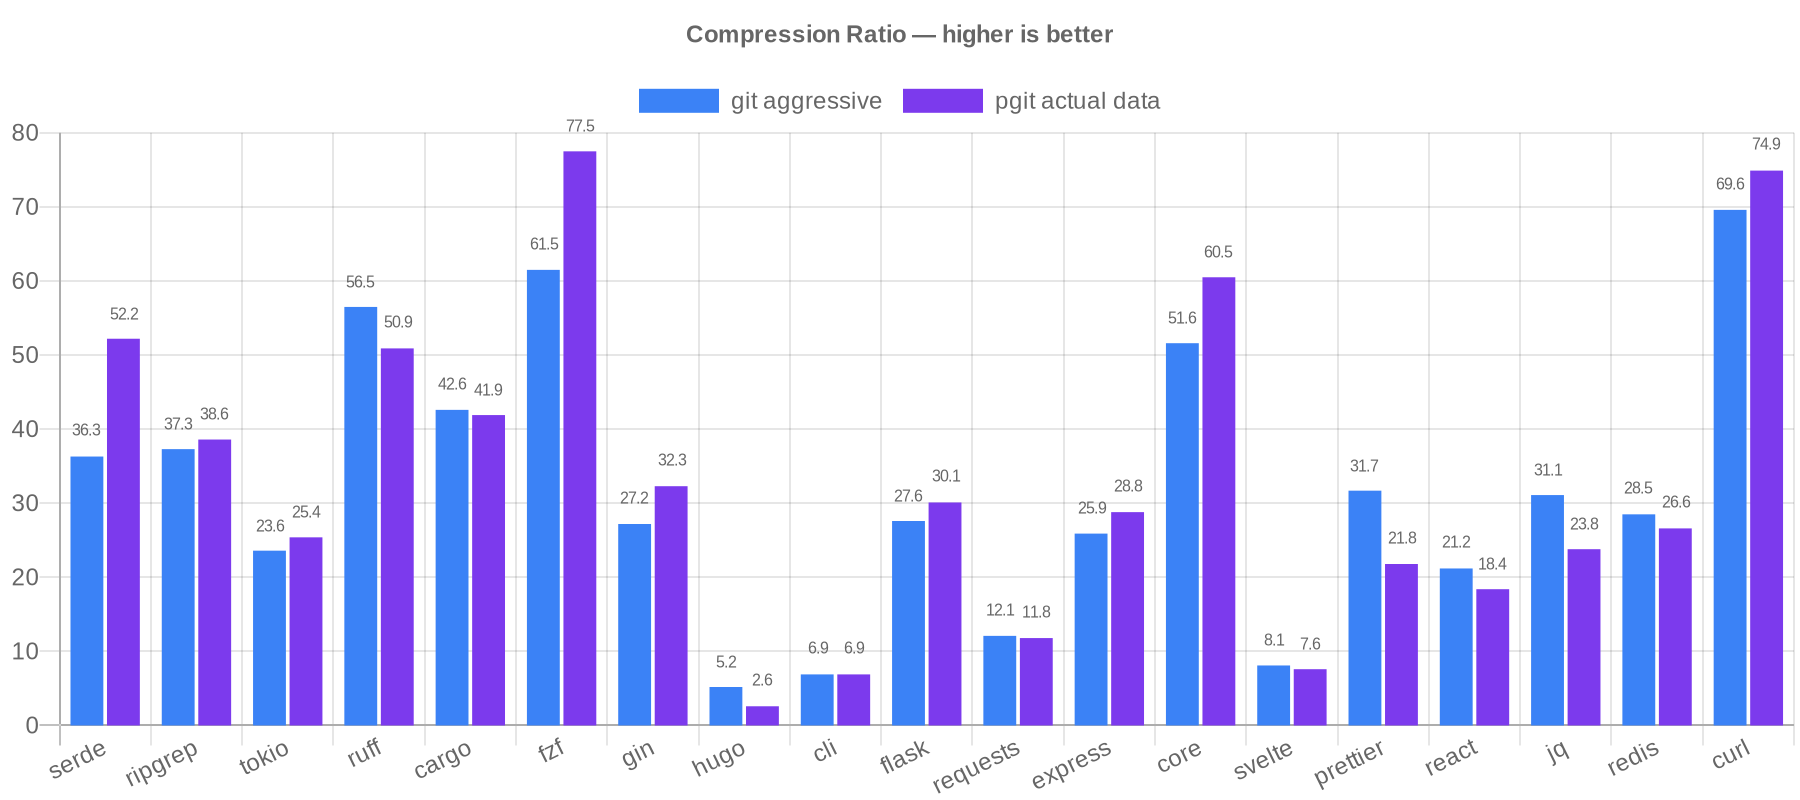
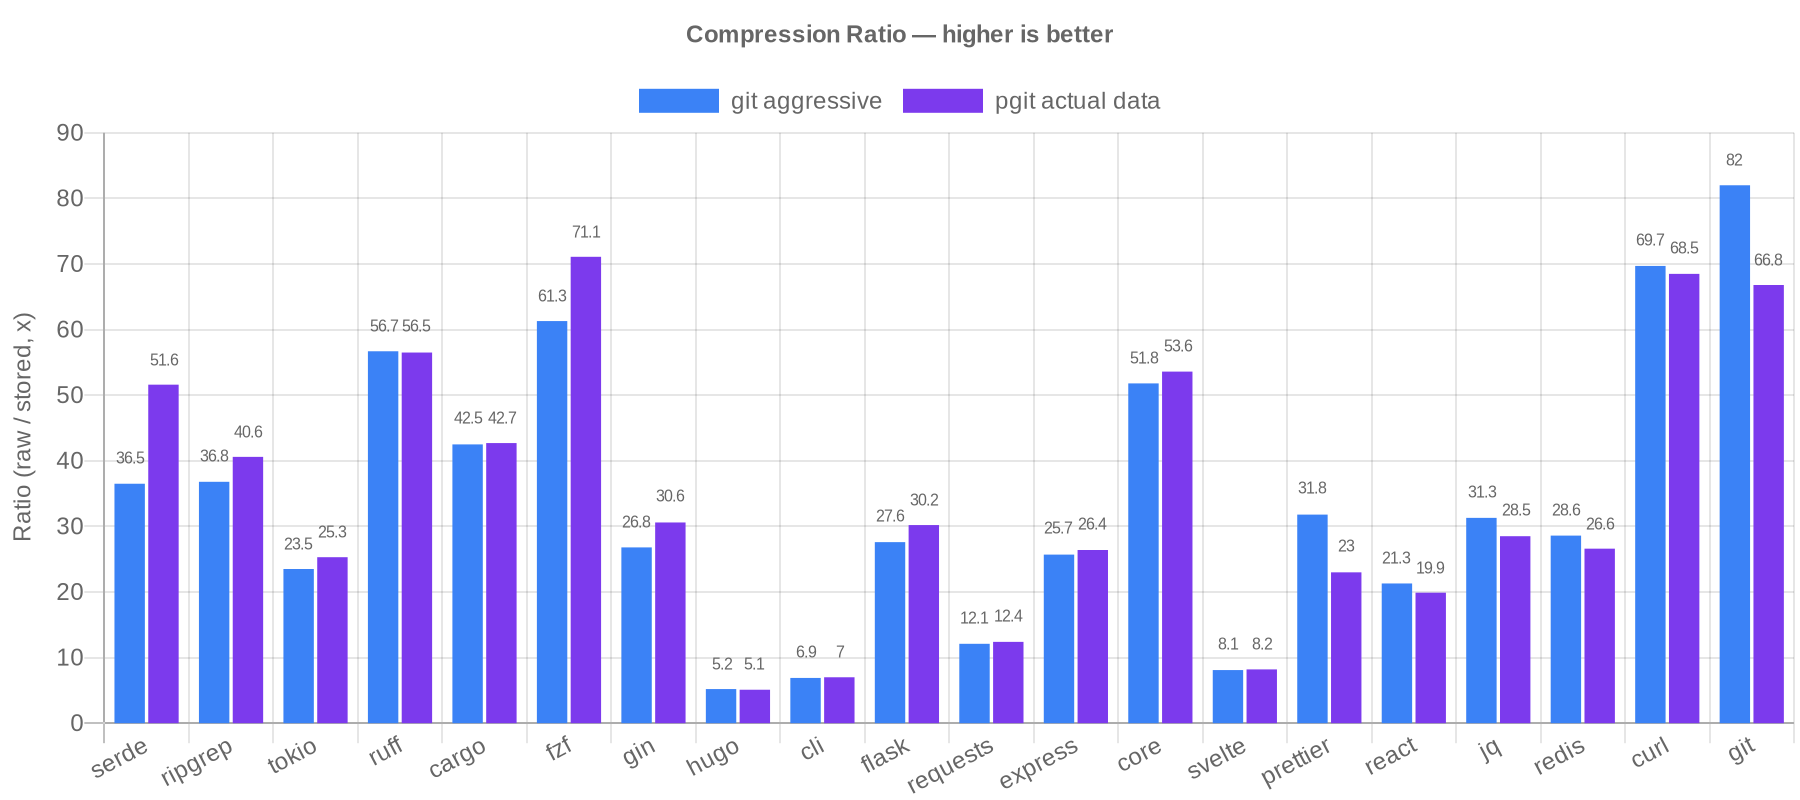
blog: update pgit article for v4 (20 repos, 12-8 scorecard, path_id schema)

diff --git a/data/blog/building-pgit.md b/data/blog/building-pgit.md
@@ -4,11 +4,11 @@ slug: building-pgit
 date: "2026-02-16"
 tags: [postgresql, git, compression, delta-encoding, go, open-source, ai-agents]
 projects: []
-excerpt: "I built a Git-like CLI backed by PostgreSQL with delta compression. It goes head-to-head with git gc --aggressive on storage while making your entire commit history SQL-queryable. Tested on 19 real repos, 193k commits."
+excerpt: "I built a Git-like CLI backed by PostgreSQL with delta compression. Benchmarked on 20 real repos totaling 274k commits, it outcompresses git gc --aggressive on 12 out of 20 repositories while making your entire commit history SQL-queryable."
 draft: true
 ---
 
-**TL;DR:** Built a Git-like CLI backed by PostgreSQL with automatic delta compression. Import any git repo, query its entire history with SQL. Benchmarked on 19 real repositories (193k commits): pgit goes head-to-head with `git gc --aggressive` on compression (9 wins, 9 losses, 1 tie), while giving you full SQL access to every commit, file version, and change pattern. Then I gave an AI agent a single prompt and it produced a full codebase health report on Neon's own repo in under 10 minutes.
+**TL;DR:** Built a Git-like CLI backed by PostgreSQL with automatic delta compression. Import any git repo, query its entire history with SQL. Benchmarked on 20 real repositories (273,703 commits): pgit outcompresses `git gc --aggressive` on 12 out of 20 repositories, while giving you full SQL access to every commit, file version, and change pattern. Then I gave an AI agent a single prompt and it produced a full codebase health report on Neon's own repo in under 10 minutes.
 
 ---
 
@@ -42,15 +42,15 @@ But everything is PostgreSQL underneath. When the built-in analyses aren't enoug
 ```sql
 SELECT pa.path, pb.path, COUNT(*) as times_together
 FROM pgit_file_refs a
-JOIN pgit_paths pa ON pa.group_id = a.group_id
+JOIN pgit_paths pa ON pa.path_id = a.path_id
 JOIN pgit_file_refs b ON a.commit_id = b.commit_id
-  AND a.group_id < b.group_id
-JOIN pgit_paths pb ON pb.group_id = b.group_id
+  AND a.path_id < b.path_id
+JOIN pgit_paths pb ON pb.path_id = b.path_id
 GROUP BY pa.path, pb.path
 ORDER BY times_together DESC;
 ```
 
-This finds every pair of files changed in the same commit, counts co-occurrences, and ranks by frequency. The `a.group_id < b.group_id` condition avoids counting the same pair twice. `pgit analyze coupling` optimizes this further: it computes pairs in memory and filters out bulk reformats (commits touching 100+ files) that produce noise, not signal.
+This finds every pair of files changed in the same commit, counts co-occurrences, and ranks by frequency. The `a.path_id < b.path_id` condition avoids counting the same pair twice. `pgit analyze coupling` optimizes this further: it computes pairs in memory and filters out bulk reformats (commits touching 100+ files) that produce noise, not signal.
 
 </details>
 
@@ -62,7 +62,7 @@ Want to know your maintenance hotspots? That's `pgit analyze churn`. Or as SQL:
 ```sql
 SELECT p.path, COUNT(*) as versions
 FROM pgit_file_refs r
-JOIN pgit_paths p ON p.group_id = r.group_id
+JOIN pgit_paths p ON p.path_id = r.path_id
 GROUP BY p.path
 ORDER BY versions DESC;
 ```
@@ -87,47 +87,48 @@ And at some point the benchmark tool became the actual project. That became pgit
 
 ## Benchmarks: git vs pgit
 
-Here's where it gets interesting. I benchmarked pgit against git on 19 real repositories across 6 languages (Rust, Go, Python, JavaScript, TypeScript, C), totaling 193,635 commits. The comparison is pgit's actual compressed data size versus `git gc --aggressive` packfile size, the best git can do.
+Here's where it gets interesting. I benchmarked pgit against git on 20 real repositories across 6 languages (Rust, Go, Python, JavaScript, TypeScript, C), totaling 273,703 commits. The comparison is pgit's actual compressed data size versus `git gc --aggressive` packfile size, the best git can do.
 
-**The scorecard: pgit 9 wins, git 9 wins, 1 tie.**
+**The scorecard: pgit 12 wins, git 8 wins.**
 
 | Repository | Commits | Raw Size | git --aggressive | pgit | Winner |
 |:-----------|--------:|---------:|-----------------:|-----:|:-------|
-| serde | 4,352 | 203.5 MB | 5.6 MB | 3.9 MB | pgit (30%) |
-| ripgrep | 2,207 | 111.8 MB | 3.0 MB | 2.9 MB | pgit (3%) |
-| tokio | 4,394 | 195.5 MB | 8.3 MB | 7.7 MB | pgit (7%) |
-| fzf | 3,482 | 209.2 MB | 3.4 MB | 2.7 MB | pgit (21%) |
-| gin | 1,961 | 51.7 MB | 1.9 MB | 1.6 MB | pgit (16%) |
-| flask | 5,506 | 165.6 MB | 6.0 MB | 5.5 MB | pgit (8%) |
-| express | 6,128 | 150.0 MB | 5.8 MB | 5.2 MB | pgit (10%) |
-| core (Vue) | 6,930 | 598.9 MB | 11.6 MB | 9.9 MB | pgit (15%) |
-| curl | 37,818 | 3.3 GB | 48.4 MB | 45.0 MB | pgit (7%) |
-| cli (GitHub) | 10,776 | 287.3 MB | 41.8 MB | 41.8 MB | tie |
-| cargo | 21,833 | 1.2 GB | 29.8 MB | 30.3 MB | git (2%) |
-| requests | 6,405 | 112.4 MB | 9.3 MB | 9.5 MB | git (2%) |
-| svelte | 10,948 | 779.1 MB | 96.4 MB | 102.6 MB | git (6%) |
-| react | 21,368 | 2.2 GB | 104.9 MB | 121.4 MB | git (16%) |
-| redis | 12,936 | 2.0 GB | 71.6 MB | 76.9 MB | git (7%) |
-| ruff | 14,116 | 2.8 GB | 51.0 MB | 56.6 MB | git (11%) |
-| prettier | 11,084 | 2.0 GB | 66.2 MB | 96.4 MB | git (46%) |
-| jq | 1,871 | 121.2 MB | 3.9 MB | 5.1 MB | git (31%) |
-| hugo | 9,520 | 569.3 MB | 108.8 MB | 222.9 MB | git (105%) |
+| serde | 4,353 | 203.5 MB | 5.6 MB | 3.9 MB | pgit (30%) |
+| ripgrep | 2,208 | 111.8 MB | 3.0 MB | 2.7 MB | pgit (10%) |
+| tokio | 4,403 | 195.7 MB | 8.3 MB | 7.7 MB | pgit (7%) |
+| cargo | 21,850 | 1.2 GB | 29.9 MB | 29.8 MB | pgit (0%) |
+| fzf | 3,499 | 213.3 MB | 3.5 MB | 3.0 MB | pgit (14%) |
+| gin | 1,967 | 51.7 MB | 1.9 MB | 1.7 MB | pgit (11%) |
+| cli (GitHub) | 10,820 | 288.6 MB | 41.8 MB | 41.3 MB | pgit (1%) |
+| flask | 5,516 | 167.3 MB | 6.1 MB | 5.5 MB | pgit (10%) |
+| requests | 6,405 | 112.4 MB | 9.3 MB | 9.1 MB | pgit (2%) |
+| express | 6,128 | 150.0 MB | 5.8 MB | 5.7 MB | pgit (2%) |
+| core (Vue) | 6,930 | 598.9 MB | 11.6 MB | 11.2 MB | pgit (3%) |
+| svelte | 10,982 | 782.7 MB | 96.5 MB | 96.0 MB | pgit (1%) |
+| ruff | 14,206 | 2.8 GB | 51.3 MB | 51.4 MB | git (0%) |
+| hugo | 9,538 | 570.6 MB | 108.8 MB | 111.0 MB | git (2%) |
+| prettier | 11,084 | 2.0 GB | 66.1 MB | 91.1 MB | git (38%) |
+| react | 21,378 | 2.2 GB | 105.0 MB | 112.3 MB | git (7%) |
+| jq | 1,871 | 121.2 MB | 3.9 MB | 4.2 MB | git (8%) |
+| redis | 12,940 | 2.0 GB | 71.6 MB | 76.9 MB | git (7%) |
+| curl | 37,860 | 3.3 GB | 48.4 MB | 49.3 MB | git (2%) |
+| git | 79,765 | 7.3 GB | 90.6 MB | 111.3 MB | git (23%) |
 
-Let me put this in perspective. `git gc --aggressive` is git's best compression mode. It's significantly slower than normal `git gc` and is designed to squeeze out every byte. pgit **goes head-to-head with it on compression while making the entire history SQL-queryable**. And against normal `git gc` (the numbers are in the [full benchmark](https://github.com/ImGajeed76/pgit/blob/main/BENCHMARK.md)), pgit wins on the vast majority of repositories.
+Let me put this in perspective. `git gc --aggressive` is git's best compression mode. It's significantly slower than normal `git gc` and is designed to squeeze out every byte. pgit **outcompresses it on the majority of repositories while making the entire history SQL-queryable**. Against normal `git gc` (the numbers are in the [full benchmark](https://github.com/ImGajeed76/pgit/blob/main/BENCHMARK.md)), pgit wins on nearly every repository.
 
 ![Compression Ratio (higher is better)](https://raw.githubusercontent.com/ImGajeed76/oseifert-data/master/data/blog/images/pgit-compression-ratio.png)
 
 ![Stored Size in MB (lower is better)](https://raw.githubusercontent.com/ImGajeed76/oseifert-data/master/data/blog/images/pgit-stored-size.png)
 
-There's a clear pattern in the results. pgit wins on source-code-heavy repositories with incremental changes: serde, fzf, Vue core, express, curl. These are exactly the kind of repositories where delta compression shines, because most commits change a few lines in a few files, and consecutive versions of each file are highly similar.
+The results split along a clear line. pgit wins on repositories where most changes are incremental edits to source code, which is the majority of the benchmark suite. Delta compression within each file's version chain captures most of the redundancy, and pgit's path-to-group mapping deduplicates content from renames, copies, and reverts automatically by grouping related files into shared delta chains.
 
-Git wins on repositories with large vendored dependencies, binary assets, or generated test fixtures: hugo, prettier, react. Hugo is the most extreme case (105% larger) because it vendors a lot of theme and asset files that are similar across different paths. Git's packfile format can deduplicate across files (noticing that `vendor/foo.js` is similar to `vendor/bar.js`), while pgit compresses within each file's version chain independently.
+Git pulls ahead on repositories with heavy cross-file similarity between *unrelated* files: prettier (38%), git/git (23%). Git's packfile format can delta-compress any object against any other object in the entire repository, regardless of file path. pgit deduplicates renamed and copied files, but unrelated files with similar content are compressed independently.
 
-I'm not going to pretend pgit beats git everywhere. It doesn't. pgit wins on source-code-heavy repos; git wins on repos with large vendored or binary content, and git's wins there tend to be larger in magnitude. But going head-to-head with git's *best* compression mode while adding full SQL queryability on top? I'll take that trade any day.
+What surprised me is how far targeted deduplication gets you. Grouping related files into shared delta chains, without git's arbitrary cross-object matching, beats git's best mode on 12 out of 20 repositories. And you get SQL queryability on top.
 
 ### It's Not Just About Storage
 
-You might expect that storing everything in delta-compressed PostgreSQL tables would kill query performance. It doesn't. Here are real numbers on the **git/git repository** (79,000 commits, 7,278 files):
+You might expect that storing everything in delta-compressed PostgreSQL tables would kill query performance. It doesn't. Here are real numbers on the **git/git repository** (79,765 commits, 7,291 files):
 
 | Command | Time |
 |---------|------|
@@ -231,7 +232,7 @@ If you run into bugs or have a compelling feature idea, issues and PRs are welco
 If you want to try pgit:
 
 ```bash
-go install github.com/imgajeed76/pgit/v3/cmd/pgit@latest
+go install github.com/imgajeed76/pgit/v4/cmd/pgit@latest
 ```
 
 - **pgit**: [github.com/ImGajeed76/pgit](https://github.com/ImGajeed76/pgit)
